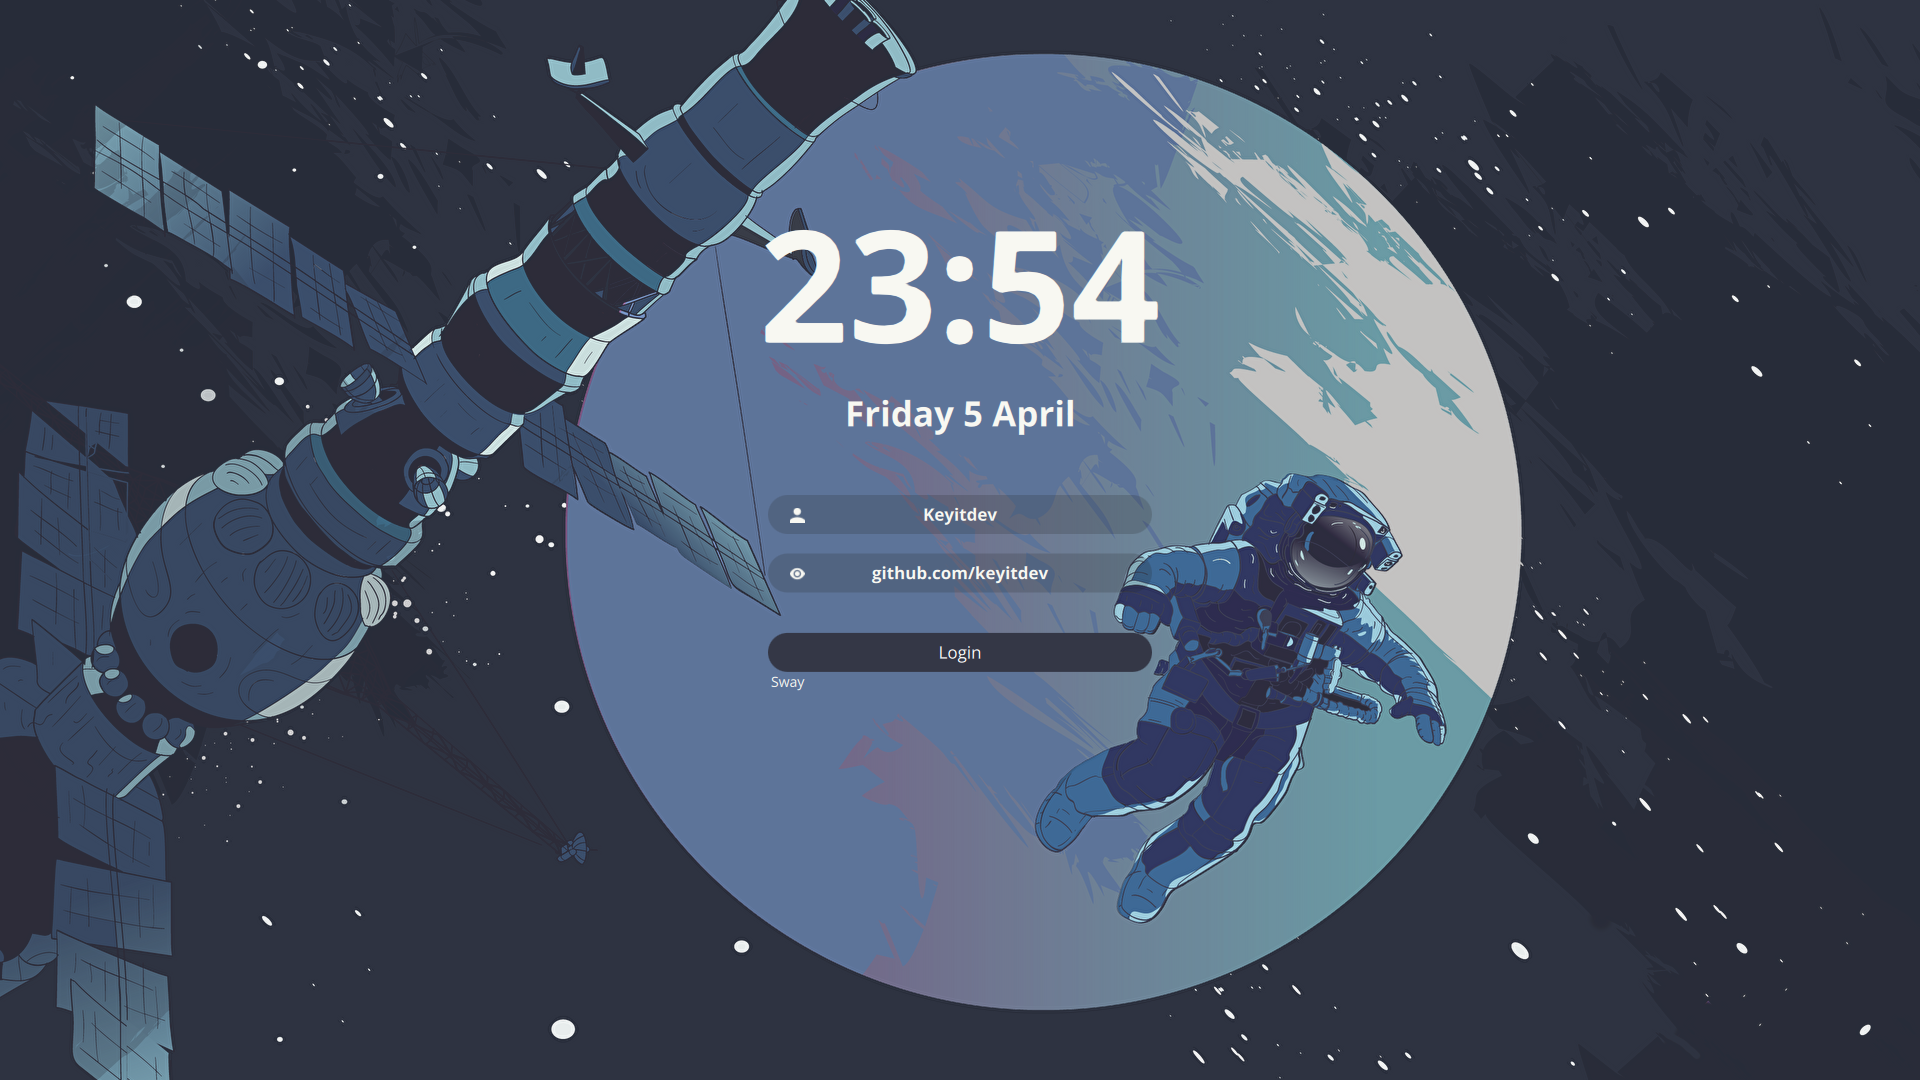
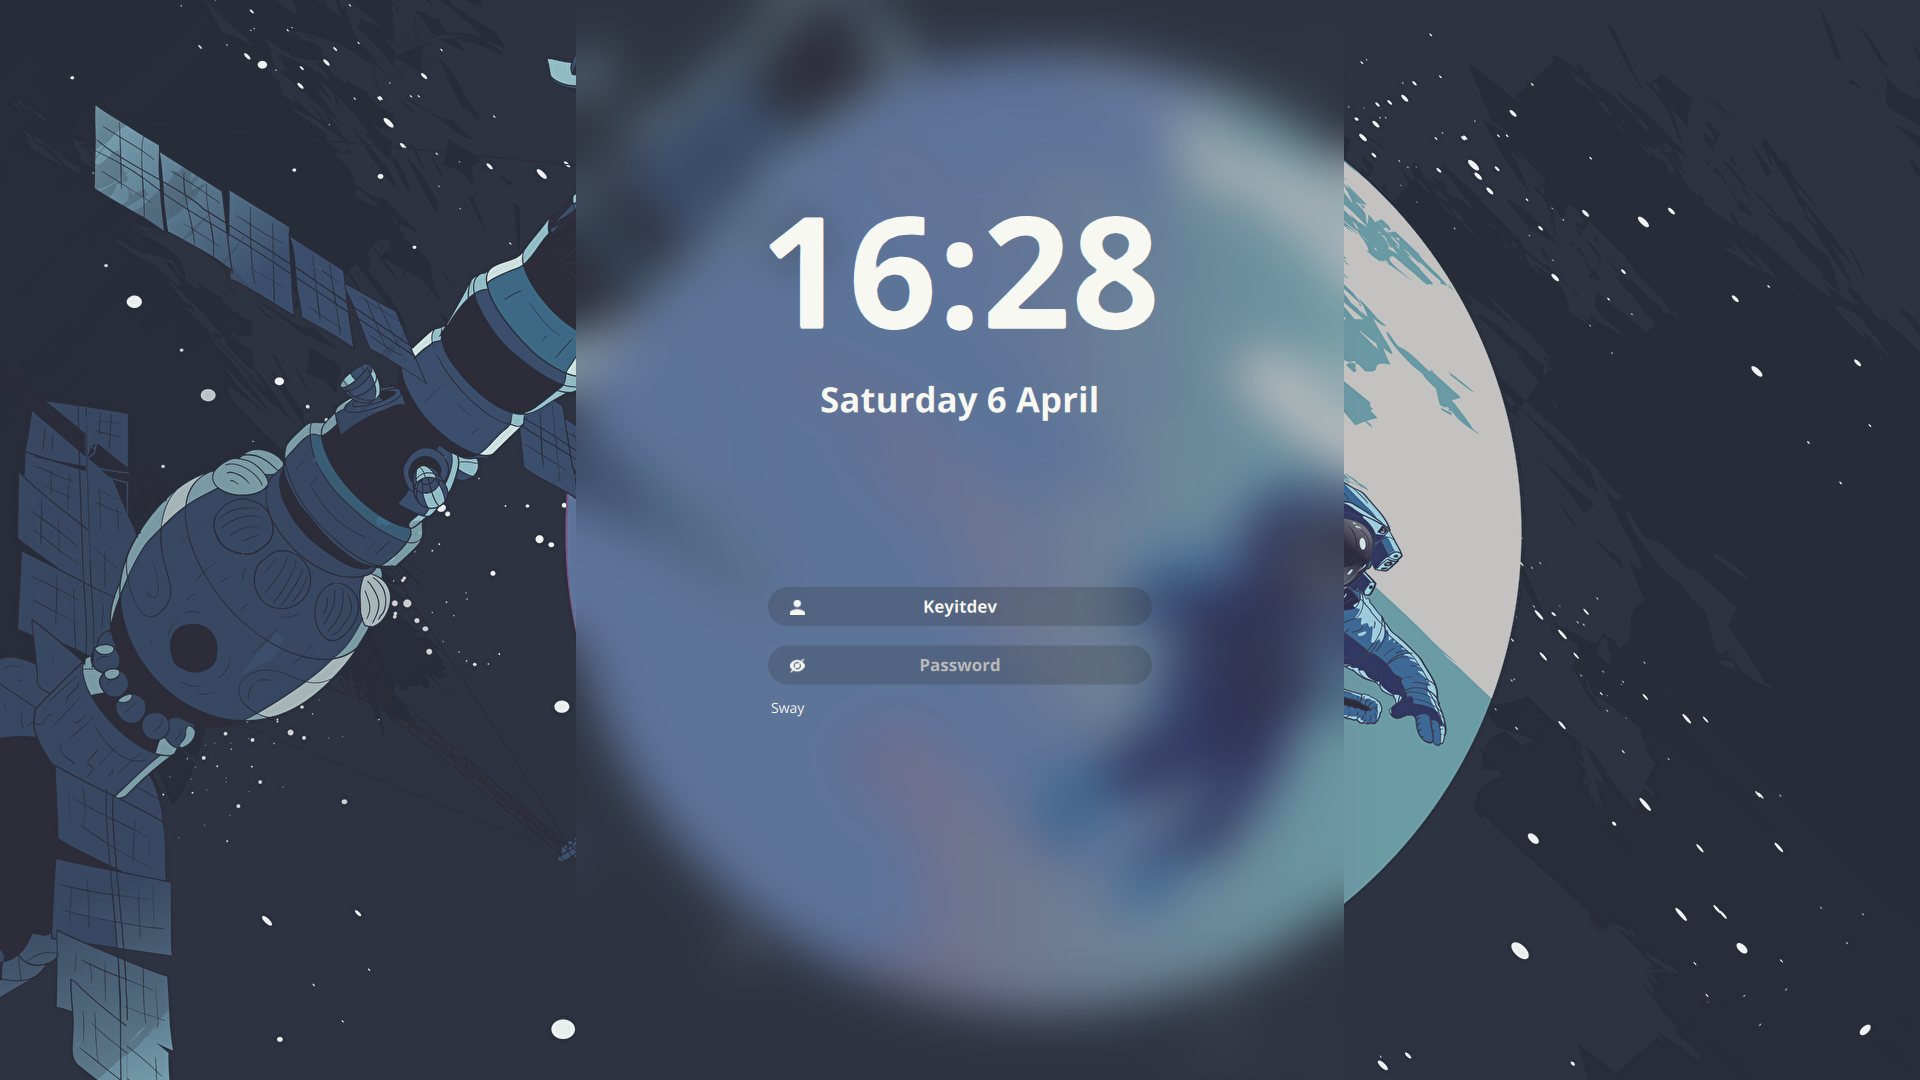
Update: Added ability to hide login button, minor changes in readme.

diff --git a/Components/Input.qml b/Components/Input.qml
@@ -1,8 +1,7 @@
-// SDDM Sugar Candy is free software: you can redistribute it and/or modify it
-// under the terms of the GNU General Public License as published by the
-// Free Software Foundation, either version 3 of the License, or any later version.
-// Config created by https://github.com/MarianArlt
-// Config modified by keyitdev https://github.com/keyitdev
+// Config created by Keyitdev https://github.com/Keyitdev/sddm-astronaut-theme
+// Copyright (C) 2022-2024 Keyitdev
+// Based on https://github.com/MarianArlt/sddm-sugar-dark
+// Distributed under the GPLv3+ License https://www.gnu.org/licenses/gpl-3.0.html
 
 import QtQuick 2.15
 import QtQuick.Layouts 1.15
@@ -15,6 +14,49 @@ Column {
 
     property Control exposeSession: sessionSelect.exposeSession
     property bool failed
+
+    Item {
+        // change also in selectSession
+        height: root.font.pointSize * 2
+        width: parent.width / 2
+        anchors.horizontalCenter: parent.horizontalCenter
+        Label {
+            id: errorMessage
+            width: parent.width
+            text: failed ? config.TranslateLoginFailedWarning || textConstants.loginFailed + "!" : keyboard.capsLock ? config.TranslateCapslockWarning || textConstants.capslockWarning : null
+            horizontalAlignment: Text.AlignHCenter
+            font.pointSize: root.font.pointSize * 0.8
+            font.italic: true
+            color: root.palette.text
+            opacity: 0
+            states: [
+                State {
+                    name: "fail"
+                    when: failed
+                    PropertyChanges {
+                        target: errorMessage
+                        opacity: 1
+                    }
+                },
+                State {
+                    name: "capslock"
+                    when: keyboard.capsLock
+                    PropertyChanges {
+                        target: errorMessage
+                        opacity: 1
+                    }
+                }
+            ]
+            transitions: [
+                Transition {
+                    PropertyAnimation {
+                        properties: "opacity"
+                        duration: 100
+                    }
+                }
+            ]
+        }
+    }
 
     Item {
         id: usernameField
@@ -189,7 +231,7 @@ Column {
                 border.width: parent.activeFocus ? 2 : 1
                 radius: config.RoundCorners || 0
             }
-            onAccepted: loginButton.clicked()
+            onAccepted: config.AllowBadUsernames == "false" ? sddm.login(username.text.toLowerCase(), password.text, sessionSelect.selectedSession) : sddm.login(username.text, password.text, sessionSelect.selectedSession)
             KeyNavigation.down: showPassword
             z: 1
 
@@ -216,20 +258,19 @@ Column {
         height: root.font.pointSize * 4.5
         width: parent.width / 2
         anchors.horizontalCenter: parent.horizontalCenter
-
+        
         Button {
-
             id: showPassword
             z: 2
             width: selectUser.height * 1
-                    height: parent.height
-                    anchors.left: parent.left
-                    anchors.verticalCenter: parent.verticalCenter
-                    anchors.leftMargin: selectUser.height * 0
-                    icon.height: parent.height * 0.25
-                    icon.width: parent.height * 0.25
-                    icon.color: root.palette.text
-                    icon.source: Qt.resolvedUrl("../Assets/Password2.svg")
+            height: parent.height
+            anchors.left: parent.left
+            anchors.verticalCenter: parent.verticalCenter
+            anchors.leftMargin: selectUser.height * 0
+            icon.height: parent.height * 0.25
+            icon.width: parent.height * 0.25
+            icon.color: root.palette.text
+            icon.source: Qt.resolvedUrl("../Assets/Password2.svg")
 
             background: Rectangle {
                 color: "transparent"
@@ -342,56 +383,17 @@ Column {
     }
 
     Item {
-        height: root.font.pointSize * 2.3
-        width: parent.width / 2
-        anchors.horizontalCenter: parent.horizontalCenter
-        Label {
-            id: errorMessage
-            width: parent.width
-            text: failed ? config.TranslateLoginFailedWarning || textConstants.loginFailed + "!" : keyboard.capsLock ? config.TranslateCapslockWarning || textConstants.capslockWarning : null
-            horizontalAlignment: Text.AlignHCenter
-            font.pointSize: root.font.pointSize * 0.8
-            font.italic: true
-            color: root.palette.text
-            opacity: 0
-            states: [
-                State {
-                    name: "fail"
-                    when: failed
-                    PropertyChanges {
-                        target: errorMessage
-                        opacity: 1
-                    }
-                },
-                State {
-                    name: "capslock"
-                    when: keyboard.capsLock
-                    PropertyChanges {
-                        target: errorMessage
-                        opacity: 1
-                    }
-                }
-            ]
-            transitions: [
-                Transition {
-                    PropertyAnimation {
-                        properties: "opacity"
-                        duration: 100
-                    }
-                }
-            ]
-        }
-    }
-
-    Item {
         id: login
-        height: root.font.pointSize * 3
+        // important
+        height: root.font.pointSize * 9
         width: parent.width / 2
         anchors.horizontalCenter: parent.horizontalCenter
-
+        visible: config.HideLoginButton == "true"  ? false : true
         Button {
+            
             id: loginButton
             anchors.horizontalCenter: parent.horizontalCenter
+            anchors.verticalCenter: parent.verticalCenter
             text: config.TranslateLogin || textConstants.login
             height: root.font.pointSize * 3
             implicitWidth: parent.width

diff --git a/Components/LoginForm.qml b/Components/LoginForm.qml
@@ -1,8 +1,7 @@
-// SDDM Sugar Candy is free software: you can redistribute it and/or modify it
-// under the terms of the GNU General Public License as published by the
-// Free Software Foundation, either version 3 of the License, or any later version.
-// Config created by https://github.com/MarianArlt
-// Config modified by keyitdev https://github.com/keyitdev
+// Config created by Keyitdev https://github.com/Keyitdev/sddm-astronaut-theme
+// Copyright (C) 2022-2024 Keyitdev
+// Based on https://github.com/MarianArlt/sddm-sugar-dark
+// Distributed under the GPLv3+ License https://www.gnu.org/licenses/gpl-3.0.html
 
 import QtQuick 2.15
 import QtQuick.Layouts 1.15
@@ -21,7 +20,8 @@ ColumnLayout {
     Clock {
         id: clock
         Layout.alignment: Qt.AlignHCenter | Qt.AlignBottom
-        Layout.preferredHeight: root.height / 4
+        // important
+        Layout.preferredHeight: root.height / 3
         Layout.leftMargin: p != "0" ? a == "left" ? -p : a == "right" ? p : 0 : 0
     }
 

diff --git a/Components/SessionButton.qml b/Components/SessionButton.qml
@@ -1,8 +1,7 @@
-// SDDM Sugar Candy is free software: you can redistribute it and/or modify it
-// under the terms of the GNU General Public License as published by the
-// Free Software Foundation, either version 3 of the License, or any later version.
-// Config created by https://github.com/MarianArlt
-// Config modified by keyitdev https://github.com/keyitdev
+// Config created by Keyitdev https://github.com/Keyitdev/sddm-astronaut-theme
+// Copyright (C) 2022-2024 Keyitdev
+// Based on https://github.com/MarianArlt/sddm-sugar-dark
+// Distributed under the GPLv3+ License https://www.gnu.org/licenses/gpl-3.0.html
 
 import QtQuick 2.15
 import QtQuick.Controls 2.15
@@ -20,7 +19,9 @@ Item {
 
     ComboBox {
         id: selectSession
-
+        // important
+        // change also in errorMessage
+        height: root.font.pointSize * 2
         hoverEnabled: true
         anchors.left: parent.left
         Keys.onPressed: {

diff --git a/Components/VirtualKeyboard.qml b/Components/VirtualKeyboard.qml
@@ -1,8 +1,7 @@
-// SDDM Sugar Candy is free software: you can redistribute it and/or modify it
-// under the terms of the GNU General Public License as published by the
-// Free Software Foundation, either version 3 of the License, or any later version.
-// Config created by https://github.com/MarianArlt
-// Config modified by keyitdev https://github.com/keyitdev
+// Config created by Keyitdev https://github.com/Keyitdev/sddm-astronaut-theme
+// Copyright (C) 2022-2024 Keyitdev
+// Based on https://github.com/MarianArlt/sddm-sugar-dark
+// Distributed under the GPLv3+ License https://www.gnu.org/licenses/gpl-3.0.html
 
 import QtQuick 2.15
 import QtQuick.VirtualKeyboard 2.3

diff --git a/Components/Clock.qml b/Components/Clock.qml
@@ -1,8 +1,7 @@
-// SDDM Sugar Candy is free software: you can redistribute it and/or modify it
-// under the terms of the GNU General Public License as published by the
-// Free Software Foundation, either version 3 of the License, or any later version.
-// Config created by https://github.com/MarianArlt
-// Config modified by keyitdev https://github.com/keyitdev
+// Config created by Keyitdev https://github.com/Keyitdev/sddm-astronaut-theme
+// Copyright (C) 2022-2024 Keyitdev
+// Based on https://github.com/MarianArlt/sddm-sugar-dark
+// Distributed under the GPLv3+ License https://www.gnu.org/licenses/gpl-3.0.html
 
 import QtQuick 2.15
 import QtQuick.Controls 2.15

diff --git a/Components/UserList.qml b/Components/UserList.qml
@@ -1,8 +1,7 @@
-// SDDM Sugar Candy is free software: you can redistribute it and/or modify it
-// under the terms of the GNU General Public License as published by the
-// Free Software Foundation, either version 3 of the License, or any later version.
-// Config created by https://github.com/MarianArlt
-// Config modified by keyitdev https://github.com/keyitdev
+// Config created by Keyitdev https://github.com/Keyitdev/sddm-astronaut-theme
+// Copyright (C) 2022-2024 Keyitdev
+// Based on https://github.com/MarianArlt/sddm-sugar-dark
+// Distributed under the GPLv3+ License https://www.gnu.org/licenses/gpl-3.0.html
 
 import QtQuick 2.15
 import QtQuick.Controls 2.15

diff --git a/Components/SystemButtons.qml b/Components/SystemButtons.qml
@@ -1,8 +1,7 @@
-// SDDM Sugar Candy is free software: you can redistribute it and/or modify it
-// under the terms of the GNU General Public License as published by the
-// Free Software Foundation, either version 3 of the License, or any later version.
-// Config created by https://github.com/MarianArlt
-// Config modified by keyitdev https://github.com/keyitdev
+// Config created by Keyitdev https://github.com/Keyitdev/sddm-astronaut-theme
+// Copyright (C) 2022-2024 Keyitdev
+// Based on https://github.com/MarianArlt/sddm-sugar-dark
+// Distributed under the GPLv3+ License https://www.gnu.org/licenses/gpl-3.0.html
 
 import QtQuick 2.15
 import QtQuick.Layouts 1.15

diff --git a/Main.qml b/Main.qml
@@ -1,8 +1,7 @@
-// SDDM Sugar Candy is free software: you can redistribute it and/or modify it
-// under the terms of the GNU General Public License as published by the
-// Free Software Foundation, either version 3 of the License, or any later version.
-// Config created by https://github.com/MarianArlt
-// Config modified by keyitdev https://github.com/keyitdev
+// Config created by Keyitdev https://github.com/Keyitdev/sddm-astronaut-theme
+// Copyright (C) 2022-2024 Keyitdev
+// Based on https://github.com/MarianArlt/sddm-sugar-dark
+// Distributed under the GPLv3+ License https://www.gnu.org/licenses/gpl-3.0.html
 
 import QtQuick 2.15
 import QtQuick.Layouts 1.15

diff --git a/README.md b/README.md
@@ -1,12 +1,20 @@
 # sddm-astronaut-theme
 
-A theme for the [SDDM login manager](https://github.com/sddm/sddm) based on [`Sugar Dark for SDDM`](https://github.com/MarianArlt/sddm-sugar-dark).
-Screen resolution: 1080p.
+A theme for the [SDDM login manager](https://github.com/sddm/sddm).
+
+- Screen resolution: 1080p
+- Font: Open sans
 
 ### Preview
+
+You can easily change how it looks in **[config](./theme.conf)**. 
+Here are some examples:
+
 ![Preview](./Previews/preview1.png)
 ![Preview](./Previews/preview2.png)
 ![Preview](./Previews/preview3.png)
+![Preview](./Previews/preview4.png)
+
 ### Dependencies
 
 ```sh
@@ -37,4 +45,5 @@ Based on the theme [`Sugar Dark for SDDM`](https://github.com/MarianArlt/sddm-su
 
 ### License
 
-Distributed under the [GPLv3+](https://www.gnu.org/licenses/gpl-3.0.html) License.
+Distributed under the **[GPLv3+](https://www.gnu.org/licenses/gpl-3.0.html) License**.    
+Copyright (C) 2022-2024 Keyitdev.
